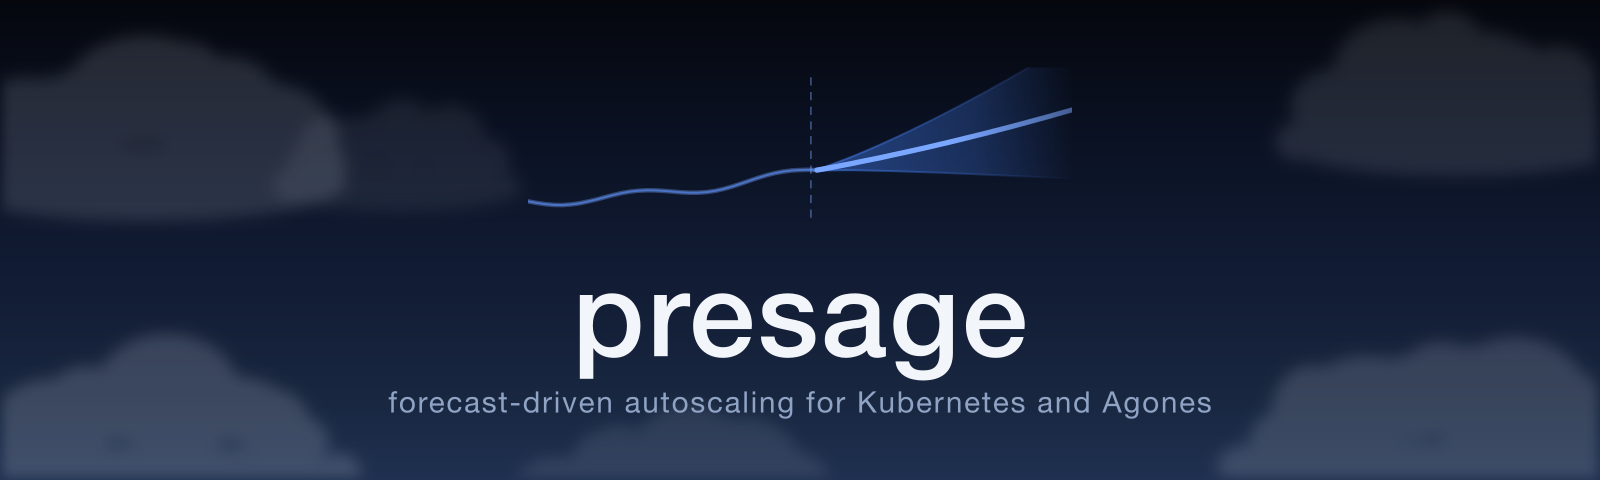
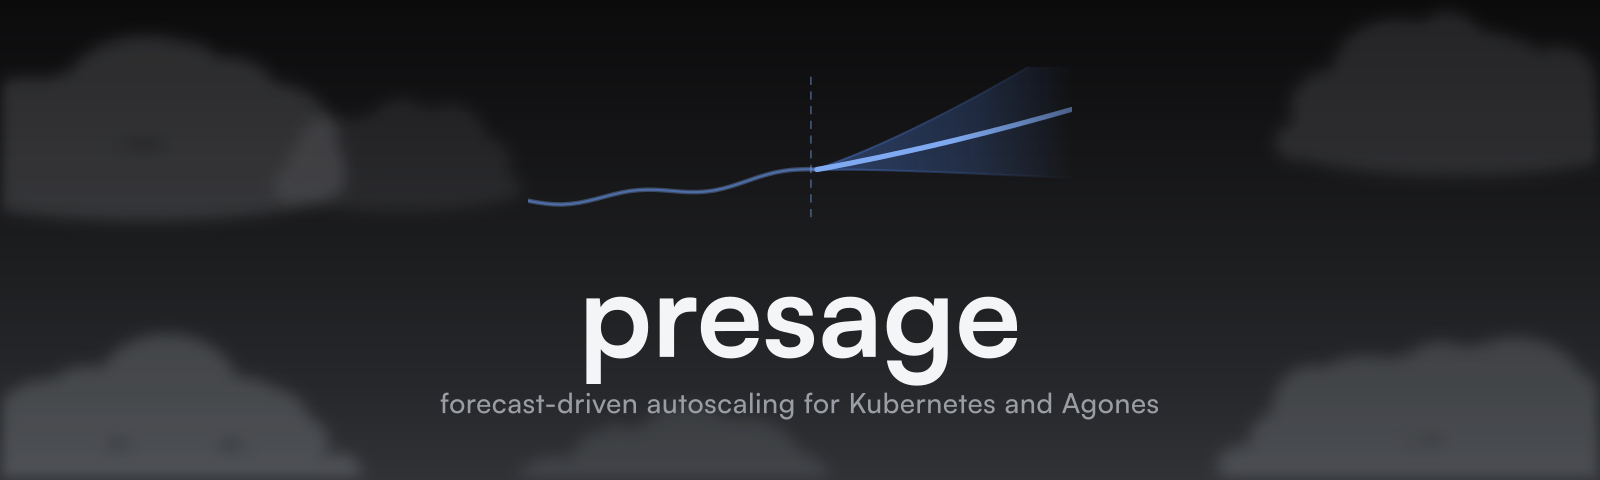
Use a neutral dark ground and set the lettering in Satoshi
The background was dark blue, which competed with the one accent the mark is
allowed. It is now a neutral dark grey, and the accent stays blue so it reads
as the only colour in the image.

The lettering is Satoshi, matching Breezy, but embedded as outlined paths
rather than set as live text. This is not a stylistic choice: rsvg-convert
cannot be relied on to find a font that is not installed system-wide, and on
macOS its Pango is built against CoreText, which ignores a scratch
FONTCONFIG_FILE *silently*. The first attempt did exactly that -- it reported
success, fell back to Helvetica, and produced a banner in the wrong typeface
that looked perfectly fine unless you knew what Satoshi looks like. Comparing
a render against one requesting a deliberately nonexistent family produced
byte-identical output, which is what caught it.

Outlining removes the question entirely: the render is geometry, identical on
any machine, and the font does not have to be present. The font file is not
vendored here; text-to-paths.py regenerates lib/lettering.json from the Breezy
asset package when the lettering changes.

Shaping goes through HarfBuzz so the spacing is the font's own kerning rather
than a naive sum of advance widths, and the script fails hard when shaping
yields .notdef -- a tofu wordmark renders without error and looks merely ugly,
which is the kind of failure that reaches production. That guard caught the
real bug in this change: TTFont carries the source flavor over, so a font
[…]

diff --git a/hack/branding/text-to-paths.py b/hack/branding/text-to-paths.py
@@ -1,0 +1,129 @@
+#!/usr/bin/env python3
+"""Outline the wordmark and tagline to SVG paths.
+
+rsvg-convert cannot be relied on to find a font that is not installed
+system-wide. On macOS its Pango is built against CoreText, so a
+FONTCONFIG_FILE pointing at a scratch directory is ignored entirely -- and
+ignored *silently*, falling back to Helvetica and producing a banner in the
+wrong typeface that looks fine unless you know what Satoshi looks like. That
+failure mode is worse than a hard error.
+
+Outlining removes the problem: the rendered SVG carries geometry, so the
+output is identical on any machine and no font has to be present at render
+time. It is also what the Breezy asset pipeline does for its own lockup.
+
+Only the glyphs actually used are emitted, and the font itself is never
+committed to this repository.
+
+    uv run --with fonttools --with brotli --with uharfbuzz \\
+        python hack/branding/text-to-paths.py > hack/branding/lib/lettering.json
+"""
+
+from __future__ import annotations
+
+import json
+import pathlib
+import sys
+
+import uharfbuzz as hb
+from fontTools.pens.svgPathPen import SVGPathPen
+from fontTools.ttLib import TTFont
+from fontTools.varLib import instancer
+
+# Satoshi lives in the Breezy asset package; presage does not vendor it.
+SOURCE = pathlib.Path(
+    "~/IdeaProjects/Organizations/Breezy/breezy-websources/packages/assets/files/fonts/satoshi-variable.woff2"
+).expanduser()
+
+RUNS = {
+    "wordmark": {"text": "presage", "weight": 700, "tracking": 0.0},
+    "tagline": {
+        "text": "forecast-driven autoscaling for Kubernetes and Agones",
+        "weight": 500,
+        # A little positive tracking: the tagline sets small, and Satoshi's
+        # default fit is tight at that size.
+        "tracking": 0.02,
+    },
+}
+
+
+def outline(text: str, weight: int, tracking: float) -> dict:
+    static = instancer.instantiateVariableFont(TTFont(SOURCE), {"wght": weight}, inplace=True)
+    upem = static["head"].unitsPerEm
+    glyph_set = static.getGlyphSet()
+    order = static.getGlyphOrder()
+
+    # HarfBuzz for shaping, so kerning is the font's own rather than a naive
+    # sum of advance widths.
+    buf = hb.Buffer()
+    buf.add_str(text)
+    buf.guess_segment_properties()
+
+    blob = hb.Blob.from_file_path(str(_as_ttf(static)))
+    face = hb.Face(blob)
+    font = hb.Font(face)
+    hb.shape(font, buf)
+
+    track = tracking * upem
+    parts, x = [], 0.0
+    for info, pos in zip(buf.glyph_infos, buf.glyph_positions):
+        if info.codepoint == 0:
+            raise SystemExit(
+                f"shaping produced .notdef for {text!r}: the font did not load. "
+                "A tofu wordmark renders without error and looks merely ugly, so "
+                "this is a hard failure rather than a warning."
+            )
+        name = order[info.codepoint]
+        pen = SVGPathPen(glyph_set)
+        glyph_set[name].draw(pen)
+        if d := pen.getCommands():
+            parts.append(f'<path d="{d}" transform="translate({x + pos.x_offset:.1f} 0)"/>')
+        x += pos.x_advance + track
+
+    return {
+        "glyphs": "".join(parts),
+        "advance": round(x, 1),
+        "upem": upem,
+        "capHeight": getattr(static.get("OS/2"), "sCapHeight", None) or round(upem * 0.72),
+        "ascender": static["hhea"].ascender,
+        "descender": static["hhea"].descender,
+    }
+
+
+_TTF_CACHE: dict[int, pathlib.Path] = {}
+
+
+def _as_ttf(static: TTFont) -> pathlib.Path:
+    """HarfBuzz needs a file; fontTools has one only in memory.
+
+    The flavor has to be cleared first. TTFont carries it over from the source,
+    so a font loaded from woff2 saves back *as woff2* whatever the filename
+    says -- HarfBuzz then fails to parse it and maps every character to
+    .notdef, producing a wordmark made entirely of tofu rectangles.
+    """
+    key = id(static)
+    if key not in _TTF_CACHE:
+        import tempfile
+
+        static.flavor = None
+        path = pathlib.Path(tempfile.mkstemp(suffix=".ttf")[1])
+        static.save(path)
+        _TTF_CACHE[key] = path
+    return _TTF_CACHE[key]
+
+
+def main() -> int:
+    if not SOURCE.exists():
+        print(f"font not found: {SOURCE}", file=sys.stderr)
+        print("Satoshi is not vendored here; see hack/branding/README.md", file=sys.stderr)
+        return 1
+
+    out = {name: outline(**spec) for name, spec in RUNS.items()}
+    out["_source"] = "Satoshi Variable, outlined; the font itself is not vendored"
+    json.dump(out, sys.stdout, indent=2)
+    sys.stdout.write("\n")
+    return 0
+
+
+if __name__ == "__main__":
+    sys.exit(main())

diff --git a/hack/branding/README.md b/hack/branding/README.md
@@ -1,0 +1,51 @@
+# Branding assets
+
+```bash
+make branding      # re-render docs/assets/*.png
+```
+
+The output is committed, so this only needs running when the artwork changes.
+Requires `rsvg-convert` (librsvg).
+
+## The lettering
+
+The wordmark and tagline are **Satoshi**, pre-outlined into SVG paths by
+`text-to-paths.py` and stored in `lib/lettering.json`. The font file itself is
+not in this repository.
+
+Outlining is not a stylistic choice. `rsvg-convert` cannot be relied on to find
+a font that is not installed system-wide, and on macOS its Pango is built
+against CoreText, which ignores a scratch `FONTCONFIG_FILE` **silently** — it
+falls back to Helvetica and renders a banner in the wrong typeface with no
+error at all. Geometry removes the question: the render is identical on any
+machine, and no font has to be present.
+
+To change the lettering you need Satoshi, which lives in the Breezy asset
+package (`packages/assets/files/fonts/satoshi-variable.woff2`):
+
+```bash
+uv run --with fonttools --with brotli --with uharfbuzz \
+  python hack/branding/text-to-paths.py > hack/branding/lib/lettering.json
+make branding
+```
+
+HarfBuzz does the shaping, so the spacing is the font's own kerning rather than
+a naive sum of advance widths. The script fails hard if shaping produces
+`.notdef` — a tofu wordmark renders without error and looks merely ugly, which
+is exactly the kind of failure that reaches production.
+
+## The artwork
+
+`lib/sky-art.mjs` is a port of the Breezy asset pipeline's structure — same
+variant table, same fractional cloud layout, same `rsvg-convert` step — with
+three departures:
+
+* **Neutral dark grey**, not blue. A coloured ground competes with the one
+  accent the mark is allowed.
+* **Clouds are drawn procedurally**, not composited from raster art, so this
+  repository carries no other project's brand assets. They are seeded rather
+  than random, so a re-render is byte-identical and does not turn an unrelated
+  change into a binary diff in review.
+* **No character.** The mark is a forecast curve with a widening uncertainty
+  band — the observed half carries texture, the forecast half is smooth, and
+  the band opens with the horizon. It is a picture of what presage computes.
